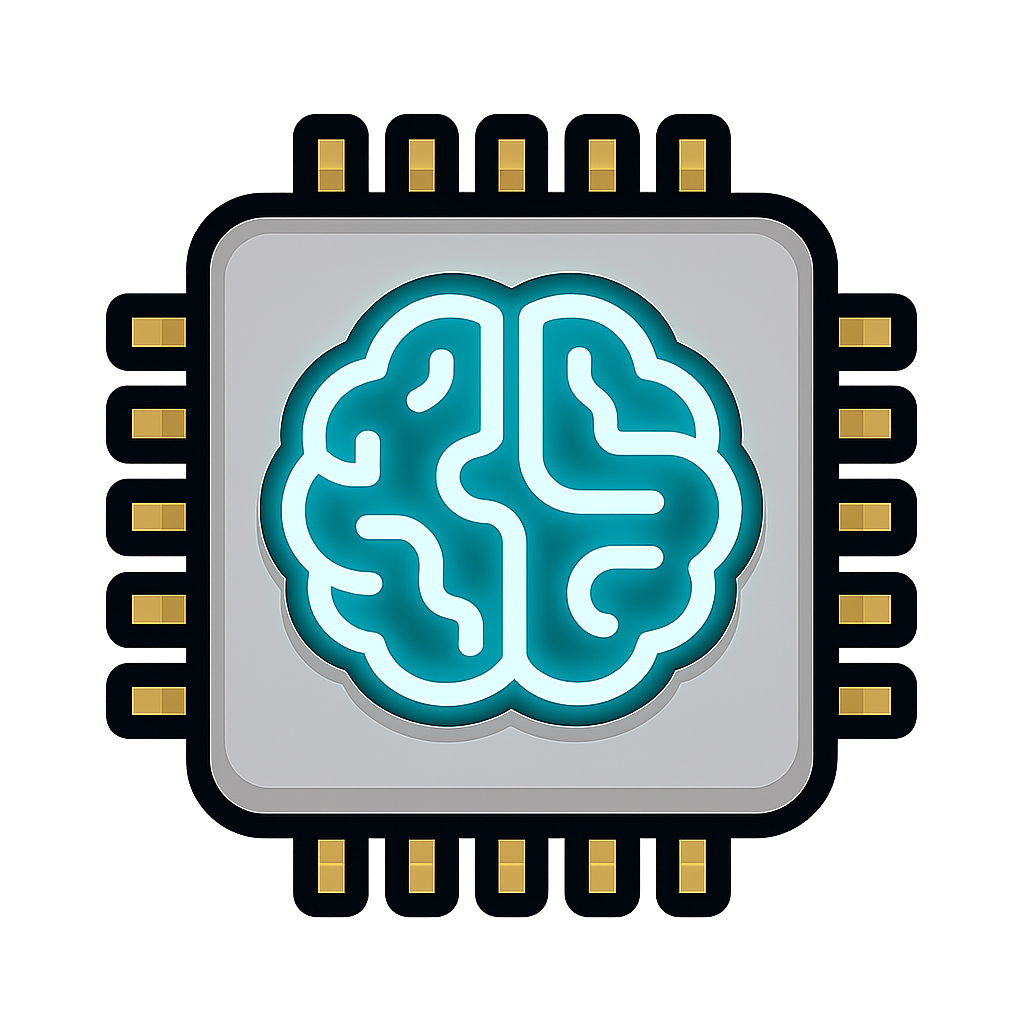
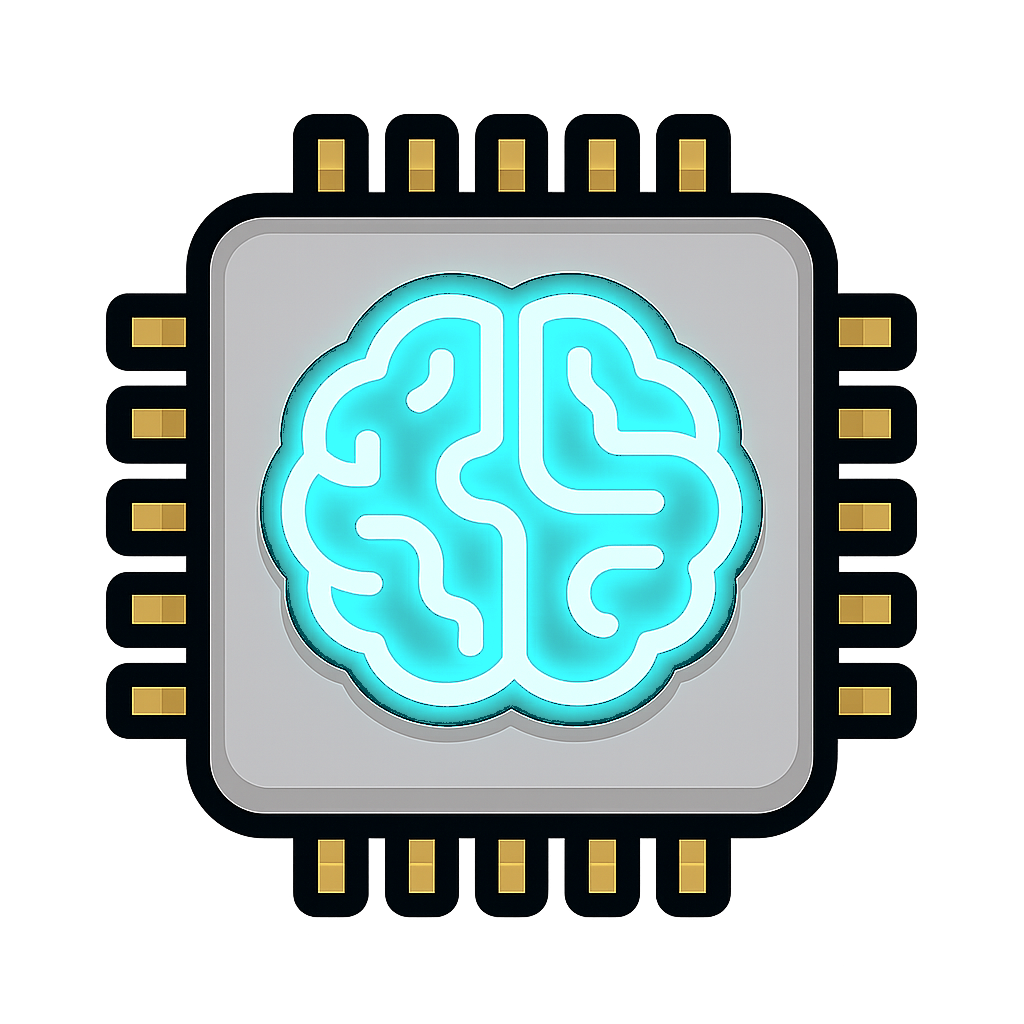
Physical AI tile: brighter cyan glow on the lit frame
Claude-Session: https://claude.ai/code/session_019QwctBLnb4UTXMJBnbargq

Changed region(s): [[0.25, 0.25, 0.75, 0.7188]]

diff --git a/index.html b/index.html
@@ -1803,7 +1803,7 @@ const faceHTML = (e, who = 'suit') => FACE_ART[who][e] || FACE_ART.suit[e] || e;
 // 같은 그림이 여러 개 있어도 박자가 겹치지 않게 시작점을 흩뜨림
 // 그림을 다시 그려도 폰에 남은 옛 그림이 보이지 않게 주소에 버전을 붙임
 // 파일마다 내용이 바뀔 때만 새로 받도록 파일 해시를 붙임 (빌드할 때 채움)
-const ART_HASH = {"tile-gundam-a.png": "41a00219", "ind-school-a.png": "1b0fc977", "robot-cobot-cook-b.png": "3f739fa6", "tile-tool-a.png": "48c7dc89", "tile-made-a.png": "43e550a9", "ind-training-b.png": "0efc1d0b", "robot-qarm-a.png": "901f7afc", "tile-legs-b.png": "c0299b41", "tile-union-b.png": "b3a03a42", "face-cook-frown.png": "e01a4907", "face-cook-neutral.png": "71441525", "ind-battery-b.png": "6e2bd18d", "ind-fire-a.png": "a71484d3", "face-trump-neutral.png": "5aecac90", "tile-legs-a.png": "2faadad6", "face-worker-angry.png": "eb6b88ed", "ind-steel-a.png": "0f070238", "face-suitf-delight.png": "d729900f", "ind-steel-b.png": "e122612f", "ind-defense-b.png": "5aa959f1", "face-cook-angry.png": "50c65318", "ind-port-b.png": "6f5dc395", "tile-tf-a.png": "d2bc0939", "ind-factory-a.png": "909659fd", "tile-term-b.png": "fa8e5b3f", "face-neutral.png": "a9a959b5", "tile-wheel-a.png": "c05f428e", "face-cook-smile.png": "be9219e0", "tile-korea-b.png": "1fcc2bd8", "face-trump-tear.png": "21d22245", "tile-auto-b.png": "88c79d74", "ind-material-b.png": "a8f27197", "tile-korea-a.png": "f7ec52b4", "tile-union-a.png": "d48507d4", "ind-auto-a.png": "9a8abf4f", "face-frown.png": "26865767", "robot-centaur-a.png": "a9e1e03b", "tile-auto-a.png": "e7100d25", "robot-cobot-cook-a.png": "2acb022c", "face-worker-tear.png": "940dcfc3", "ind-autoparts-b.png": "a5dbd76a", "face-suitf-angry.png": "5b24ceb5", "face-suitf-tear.png": "d0923069", "robot-centaur-b.png": "848f1932", "robot-mm-a.png": "e5da97cf", "ind-defense-a.png": "23a0651c", "robot-quad-a.png": "1e1384cf", "ind-autoparts-a.png": "26dcf7ce", "tile-eva-b.png": "a0ce3ca3", "face-cook-tear.png": "d529800c", "tile-gundam-b.png": "69722c17", "face-trump-delight.png": "e41c1f7d", "face-angry.png": "8542c3c5", "tile-floor-b.png": "7bfb4d09", "face-suitf-smile.png": "2bfa949d", "ind-material-a.png": "2c67685e", "tile-term-a.png": "f86a988f", "tile-eva-a.png": "8c753c91", "tile-hum-a.png": "cdc85433", "ind-port-a.png": "0e5340b9", "ind-police-a.png": "717025fa", "robot-cobot-a.png": "bb066d5e", "face-trump-angry.png": "6fc0cf6d", "tile-wheel-b.png": "e7b51f64", "face-worker-neutral.png": "f4f1ff96", "robot-amr-a.png": "21455470", "face-delight.png": "4b63238d", "face-trump-frown.png": "4102f723", "robot-mm-b.png": "41cc89c7", "ind-fire-b.png": "c530534e", "ind-police-b.png": "750b1169", "ind-ess-b.png": "c7fac005", "ind-training-a.png": "a9fe00e5", "tile-tf-b.png": "23f3efda", "ind-aircraft-a.png": "53a6b218", "ind-school-b.png": "a14af652", "tile-arm-b.png": "6cb9dab3", "face-worker-delight.png": "56fdb189", "face-worker-smile.png": "7eaefd7c", "robot-quad-b.png": "9b27fe7b", "ind-chicken-a.png": "bd4bc4e3", "face-cook-delight.png": "5ceb20b0", "ind-battery-a.png": "2ead7359", "robot-agv-b.png": "397f8942", "face-tear.png": "7cacead6", "face-suitf-neutral.png": "b29259fe", "ind-auto-b.png": "f90715bb", "ind-shipyard-a.png": "7c43481e", "tile-tool-b.png": "c90763b3", "ind-factory-b.png": "b9dfaab4", "ind-chicken-b.png": "b4930a6b", "ind-shipyard-b.png": "098fdbae", "robot-qarm-b.png": "abd9a737", "tile-arm-a.png": "cd420a51", "tile-made-b.png": "5c6a705c", "tile-floor-a.png": "14074a30", "robot-cobot-weld-a.png": "da53987b", "robot-agv-a.png": "ee67b65c", "ind-logistics-b.png": "9c5aeeca", "face-smile.png": "786eeb95", "face-worker-frown.png": "0f8d8086", "robot-cobot-weld-b.png": "a9e69108", "robot-amr-b.png": "e23a5198", "tile-hum-b.png": "01ca7c8b", "ind-ess-a.png": "83fff111", "face-suitf-frown.png": "1236f440", "ind-aircraft-b.png": "6afa5f2a", "face-trump-smile.png": "03674df8", "robot-cobot-b.png": "7ea58bc1", "ind-logistics-a.png": "b1b04f38"};
+const ART_HASH = {"tile-gundam-a.png": "41a00219", "ind-school-a.png": "1b0fc977", "robot-cobot-cook-b.png": "3f739fa6", "tile-tool-a.png": "48c7dc89", "tile-made-a.png": "43e550a9", "ind-training-b.png": "0efc1d0b", "robot-qarm-a.png": "901f7afc", "tile-legs-b.png": "c0299b41", "tile-union-b.png": "b3a03a42", "face-cook-frown.png": "e01a4907", "face-cook-neutral.png": "71441525", "ind-battery-b.png": "6e2bd18d", "ind-fire-a.png": "a71484d3", "face-trump-neutral.png": "5aecac90", "tile-legs-a.png": "2faadad6", "face-worker-angry.png": "eb6b88ed", "ind-steel-a.png": "0f070238", "face-suitf-delight.png": "d729900f", "ind-steel-b.png": "e122612f", "ind-defense-b.png": "5aa959f1", "face-cook-angry.png": "50c65318", "ind-port-b.png": "6f5dc395", "tile-tf-a.png": "d2bc0939", "ind-factory-a.png": "909659fd", "tile-term-b.png": "fa8e5b3f", "face-neutral.png": "a9a959b5", "tile-wheel-a.png": "c05f428e", "face-cook-smile.png": "be9219e0", "tile-korea-b.png": "1fcc2bd8", "face-trump-tear.png": "21d22245", "tile-auto-b.png": "bb58686e", "ind-material-b.png": "a8f27197", "tile-korea-a.png": "f7ec52b4", "tile-union-a.png": "d48507d4", "ind-auto-a.png": "9a8abf4f", "face-frown.png": "26865767", "robot-centaur-a.png": "a9e1e03b", "tile-auto-a.png": "e7100d25", "robot-cobot-cook-a.png": "2acb022c", "face-worker-tear.png": "940dcfc3", "ind-autoparts-b.png": "a5dbd76a", "face-suitf-angry.png": "5b24ceb5", "face-suitf-tear.png": "d0923069", "robot-centaur-b.png": "848f1932", "robot-mm-a.png": "e5da97cf", "ind-defense-a.png": "23a0651c", "robot-quad-a.png": "1e1384cf", "ind-autoparts-a.png": "26dcf7ce", "tile-eva-b.png": "a0ce3ca3", "face-cook-tear.png": "d529800c", "tile-gundam-b.png": "69722c17", "face-trump-delight.png": "e41c1f7d", "face-angry.png": "8542c3c5", "tile-floor-b.png": "7bfb4d09", "face-suitf-smile.png": "2bfa949d", "ind-material-a.png": "2c67685e", "tile-term-a.png": "f86a988f", "tile-eva-a.png": "8c753c91", "tile-hum-a.png": "cdc85433", "ind-port-a.png": "0e5340b9", "ind-police-a.png": "717025fa", "robot-cobot-a.png": "bb066d5e", "face-trump-angry.png": "6fc0cf6d", "tile-wheel-b.png": "e7b51f64", "face-worker-neutral.png": "f4f1ff96", "robot-amr-a.png": "21455470", "face-delight.png": "4b63238d", "face-trump-frown.png": "4102f723", "robot-mm-b.png": "41cc89c7", "ind-fire-b.png": "c530534e", "ind-police-b.png": "750b1169", "ind-ess-b.png": "c7fac005", "ind-training-a.png": "a9fe00e5", "tile-tf-b.png": "23f3efda", "ind-aircraft-a.png": "53a6b218", "ind-school-b.png": "a14af652", "tile-arm-b.png": "6cb9dab3", "face-worker-delight.png": "56fdb189", "face-worker-smile.png": "7eaefd7c", "robot-quad-b.png": "9b27fe7b", "ind-chicken-a.png": "bd4bc4e3", "face-cook-delight.png": "5ceb20b0", "ind-battery-a.png": "2ead7359", "robot-agv-b.png": "397f8942", "face-tear.png": "7cacead6", "face-suitf-neutral.png": "b29259fe", "ind-auto-b.png": "f90715bb", "ind-shipyard-a.png": "7c43481e", "tile-tool-b.png": "c90763b3", "ind-factory-b.png": "b9dfaab4", "ind-chicken-b.png": "b4930a6b", "ind-shipyard-b.png": "098fdbae", "robot-qarm-b.png": "abd9a737", "tile-arm-a.png": "cd420a51", "tile-made-b.png": "5c6a705c", "tile-floor-a.png": "14074a30", "robot-cobot-weld-a.png": "da53987b", "robot-agv-a.png": "ee67b65c", "ind-logistics-b.png": "9c5aeeca", "face-smile.png": "786eeb95", "face-worker-frown.png": "0f8d8086", "robot-cobot-weld-b.png": "a9e69108", "robot-amr-b.png": "e23a5198", "tile-hum-b.png": "01ca7c8b", "ind-ess-a.png": "83fff111", "face-suitf-frown.png": "1236f440", "ind-aircraft-b.png": "6afa5f2a", "face-trump-smile.png": "03674df8", "robot-cobot-b.png": "7ea58bc1", "ind-logistics-a.png": "b1b04f38"};
 // 게임에서는 가벼운 webp(assets/w/)를 씀. 파일 이름은 png와 같고 확장자만 다름
 const av = f => { const n = f.replace('assets/', ''); return `assets/w/${n.replace(/\.png$/, '.webp')}?v=${ART_HASH[n] || '0'}`; };
 // 업종 아이콘(ind-)은 a프레임만, 로봇·부품은 a·b를 번갈아 (팔이 까딱, 다리가 제자리걸음 등)
@@ -2135,7 +2135,7 @@ function banner(text, delay) {
 }
 
 // ───────── 진행 ─────────
-const BUILD_V = '1003-155605';
+const BUILD_V = '1003-155642';
 function loop(t) {
   const dt = Math.min(0.1, (t - (S.last || t)) / 1000);
   S.last = t;
